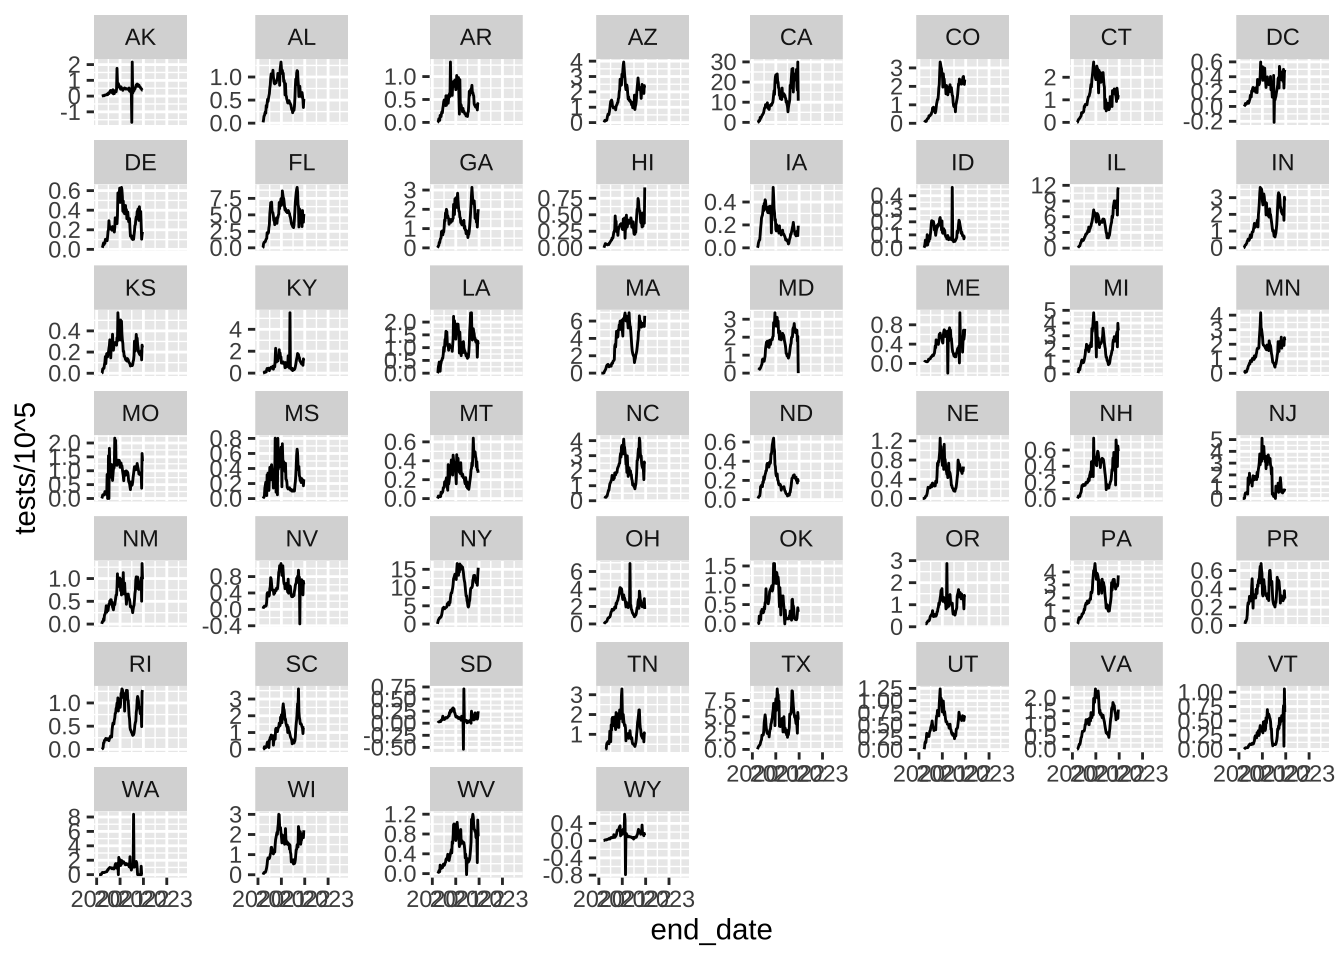
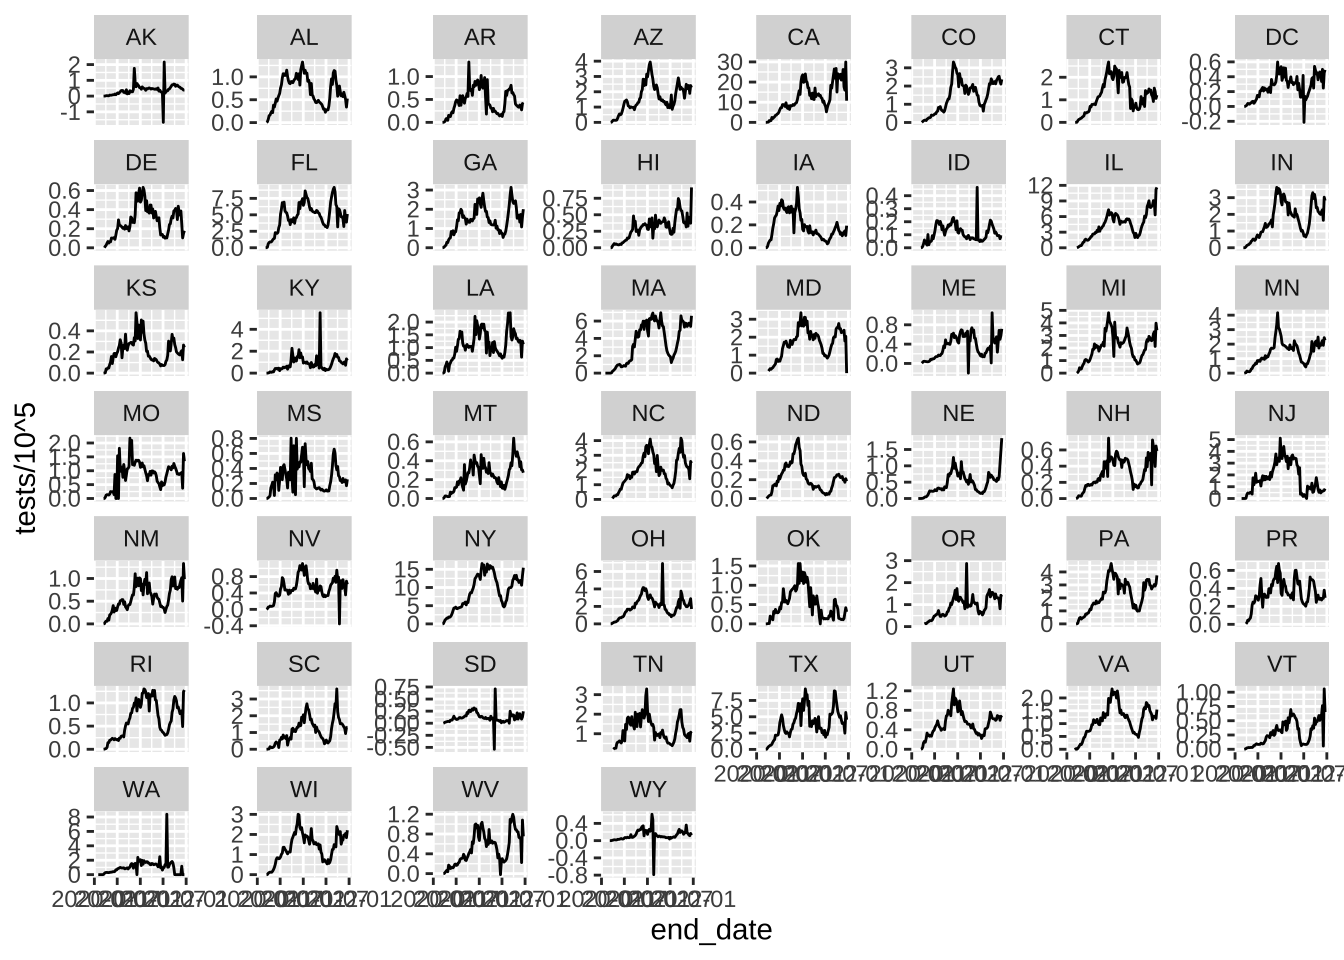
One more update

Changed region(s): [[0.0312, 0.0312, 1.0, 0.9688], [0.9062, 0.1562, 1.0, 0.2812]]

diff --git a/docs/pset1.html b/docs/pset1.html
@@ -425,16 +425,14 @@ dbl (13): population, region, mmwr_year, mmwr_week, cases, tests, hosp, deat...
 <li>The number of cases depends on testing capacity. Note that during the start of the pandemic, when we know many people died, there are not that many cases reported. Also notice somewhat large variability across states that might not be consistent with actual prevalence. The <code>tests</code> columns provides the cumulative number of tests performed by the data represented by the week. This data is not official CDC data. It was provided by Johns Hopkins Coronavirus Resource Center. Before using the data, explore the data for each state carefully looking for potential problems.</li>
 </ol>
 <p>For each state compute and plot the number of tests perforemd each week. Look at the plot for each state and look for possible problems. No need to make this plot pretty since we are just using it for data exploration. Report any inconsistencies if any.</p>
-<div class="cell" data-hash="pset1_cache/html/unnamed-chunk-10_398a0d4e10eb6b731250f73bea21b16f">
+<div class="cell" data-hash="pset1_cache/html/unnamed-chunk-10_e21e255ca9468c507555dd97dc2ca6a7">
 <div class="sourceCode cell-code" id="cb13"><pre class="sourceCode r code-with-copy"><code class="sourceCode r"><span id="cb13-1"><a href="#cb13-1" aria-hidden="true" tabindex="-1"></a>dat <span class="sc">|&gt;</span> </span>
-<span id="cb13-2"><a href="#cb13-2" aria-hidden="true" tabindex="-1"></a>  <span class="fu">arrange</span>(end_date) <span class="sc">|&gt;</span></span>
-<span id="cb13-3"><a href="#cb13-3" aria-hidden="true" tabindex="-1"></a>  <span class="fu">group_by</span>(state) <span class="sc">|&gt;</span></span>
-<span id="cb13-4"><a href="#cb13-4" aria-hidden="true" tabindex="-1"></a>  <span class="fu">mutate</span>(<span class="at">tests =</span> <span class="fu">diff</span>(<span class="fu">c</span>(<span class="dv">0</span>,tests))) <span class="sc">|&gt;</span></span>
-<span id="cb13-5"><a href="#cb13-5" aria-hidden="true" tabindex="-1"></a>  <span class="fu">ggplot</span>(<span class="fu">aes</span>(end_date, tests<span class="sc">/</span><span class="dv">10</span><span class="sc">^</span><span class="dv">5</span>)) <span class="sc">+</span> <span class="fu">geom_line</span>() <span class="sc">+</span></span>
-<span id="cb13-6"><a href="#cb13-6" aria-hidden="true" tabindex="-1"></a>  <span class="fu">facet_wrap</span>(<span class="sc">~</span>state, <span class="at">scales =</span> <span class="st">"free_y"</span>)</span></code><button title="Copy to Clipboard" class="code-copy-button"><i class="bi"></i></button></pre></div>
-<div class="cell-output cell-output-stderr">
-<pre><code>Warning: Removed 97 rows containing missing values (`geom_line()`).</code></pre>
-</div>
+<span id="cb13-2"><a href="#cb13-2" aria-hidden="true" tabindex="-1"></a>  <span class="fu">filter</span>(<span class="sc">!</span><span class="fu">is.na</span>(tests)) <span class="sc">|&gt;</span></span>
+<span id="cb13-3"><a href="#cb13-3" aria-hidden="true" tabindex="-1"></a>  <span class="fu">arrange</span>(end_date) <span class="sc">|&gt;</span></span>
+<span id="cb13-4"><a href="#cb13-4" aria-hidden="true" tabindex="-1"></a>  <span class="fu">group_by</span>(state) <span class="sc">|&gt;</span></span>
+<span id="cb13-5"><a href="#cb13-5" aria-hidden="true" tabindex="-1"></a>  <span class="fu">mutate</span>(<span class="at">tests =</span> <span class="fu">diff</span>(<span class="fu">c</span>(<span class="dv">0</span>,tests))) <span class="sc">|&gt;</span></span>
+<span id="cb13-6"><a href="#cb13-6" aria-hidden="true" tabindex="-1"></a>  <span class="fu">ggplot</span>(<span class="fu">aes</span>(end_date, tests<span class="sc">/</span><span class="dv">10</span><span class="sc">^</span><span class="dv">5</span>)) <span class="sc">+</span> <span class="fu">geom_line</span>() <span class="sc">+</span></span>
+<span id="cb13-7"><a href="#cb13-7" aria-hidden="true" tabindex="-1"></a>  <span class="fu">facet_wrap</span>(<span class="sc">~</span>state, <span class="at">scales =</span> <span class="st">"free_y"</span>)</span></code><button title="Copy to Clipboard" class="code-copy-button"><i class="bi"></i></button></pre></div>
 <div class="cell-output-display">
 <p><img src="pset1_files/figure-html/unnamed-chunk-10-1.png" class="img-fluid" width="672"></p>
 </div>
@@ -445,12 +443,12 @@ dbl (13): population, region, mmwr_year, mmwr_week, cases, tests, hosp, deat...
 <li><p>Compute the number of tests per capita for the last day JHU reported these statistics. Make a boxplot of these values for each region and include the state level data with the state abbreviation as a label. Write a sentences describing these differences you see and how this could affect our interpretation of differences in cases rates across states.</p></li>
 </ol>
 <div class="cell" data-hash="pset1_cache/html/unnamed-chunk-11_9f797323e94bc446ea92aa343132f6aa">
-<div class="sourceCode cell-code" id="cb15"><pre class="sourceCode r code-with-copy"><code class="sourceCode r"><span id="cb15-1"><a href="#cb15-1" aria-hidden="true" tabindex="-1"></a>last_day <span class="ot">&lt;-</span> <span class="fu">as_date</span>(<span class="st">"2021-1-2"</span>) <span class="do">## this should come from the previous exercise... </span></span>
-<span id="cb15-2"><a href="#cb15-2" aria-hidden="true" tabindex="-1"></a>dat <span class="sc">|&gt;</span> <span class="fu">filter</span>(end_date <span class="sc">==</span> last_day) <span class="sc">|&gt;</span></span>
-<span id="cb15-3"><a href="#cb15-3" aria-hidden="true" tabindex="-1"></a>  <span class="fu">ggplot</span>(<span class="fu">aes</span>(region, tests<span class="sc">/</span>population)) <span class="sc">+</span></span>
-<span id="cb15-4"><a href="#cb15-4" aria-hidden="true" tabindex="-1"></a>  <span class="fu">geom_boxplot</span>() <span class="sc">+</span></span>
-<span id="cb15-5"><a href="#cb15-5" aria-hidden="true" tabindex="-1"></a>  <span class="fu">geom_text</span>(<span class="fu">aes</span>(<span class="at">label =</span> state)) <span class="sc">+</span></span>
-<span id="cb15-6"><a href="#cb15-6" aria-hidden="true" tabindex="-1"></a>  <span class="fu">labs</span>(<span class="at">x =</span> <span class="st">"Region"</span>, <span class="at">y =</span> <span class="st">"Test per capita"</span>, <span class="at">title =</span> <span class="st">"SARS-COV2 tests per person"</span>)</span></code><button title="Copy to Clipboard" class="code-copy-button"><i class="bi"></i></button></pre></div>
+<div class="sourceCode cell-code" id="cb14"><pre class="sourceCode r code-with-copy"><code class="sourceCode r"><span id="cb14-1"><a href="#cb14-1" aria-hidden="true" tabindex="-1"></a>last_day <span class="ot">&lt;-</span> <span class="fu">as_date</span>(<span class="st">"2021-1-2"</span>) <span class="do">## this should come from the previous exercise... </span></span>
+<span id="cb14-2"><a href="#cb14-2" aria-hidden="true" tabindex="-1"></a>dat <span class="sc">|&gt;</span> <span class="fu">filter</span>(end_date <span class="sc">==</span> last_day) <span class="sc">|&gt;</span></span>
+<span id="cb14-3"><a href="#cb14-3" aria-hidden="true" tabindex="-1"></a>  <span class="fu">ggplot</span>(<span class="fu">aes</span>(region, tests<span class="sc">/</span>population)) <span class="sc">+</span></span>
+<span id="cb14-4"><a href="#cb14-4" aria-hidden="true" tabindex="-1"></a>  <span class="fu">geom_boxplot</span>() <span class="sc">+</span></span>
+<span id="cb14-5"><a href="#cb14-5" aria-hidden="true" tabindex="-1"></a>  <span class="fu">geom_text</span>(<span class="fu">aes</span>(<span class="at">label =</span> state)) <span class="sc">+</span></span>
+<span id="cb14-6"><a href="#cb14-6" aria-hidden="true" tabindex="-1"></a>  <span class="fu">labs</span>(<span class="at">x =</span> <span class="st">"Region"</span>, <span class="at">y =</span> <span class="st">"Test per capita"</span>, <span class="at">title =</span> <span class="st">"SARS-COV2 tests per person"</span>)</span></code><button title="Copy to Clipboard" class="code-copy-button"><i class="bi"></i></button></pre></div>
 <div class="cell-output-display">
 <p><img src="pset1_files/figure-html/unnamed-chunk-11-1.png" class="img-fluid" width="672"></p>
 </div>
@@ -463,8 +461,8 @@ dbl (13): population, region, mmwr_year, mmwr_week, cases, tests, hosp, deat...
 <li>Make sure that you create a data frame with a column with dates in <code>Dates</code> format and tests as numbers.</li>
 </ul>
 <div class="cell" data-hash="pset1_cache/html/unnamed-chunk-12_830cf83a391c921906d47461c7b9408e">
-<div class="sourceCode cell-code" id="cb16"><pre class="sourceCode r code-with-copy"><code class="sourceCode r"><span id="cb16-1"><a href="#cb16-1" aria-hidden="true" tabindex="-1"></a>url <span class="ot">&lt;-</span> <span class="st">"https://raw.githubusercontent.com/datasciencelabs/2023/main/data/covid19-tests.txt"</span></span>
-<span id="cb16-2"><a href="#cb16-2" aria-hidden="true" tabindex="-1"></a>tests <span class="ot">&lt;-</span> <span class="fu">read_delim</span>(url, <span class="at">delim =</span> <span class="st">" "</span>) </span></code><button title="Copy to Clipboard" class="code-copy-button"><i class="bi"></i></button></pre></div>
+<div class="sourceCode cell-code" id="cb15"><pre class="sourceCode r code-with-copy"><code class="sourceCode r"><span id="cb15-1"><a href="#cb15-1" aria-hidden="true" tabindex="-1"></a>url <span class="ot">&lt;-</span> <span class="st">"https://raw.githubusercontent.com/datasciencelabs/2023/main/data/covid19-tests.txt"</span></span>
+<span id="cb15-2"><a href="#cb15-2" aria-hidden="true" tabindex="-1"></a>tests <span class="ot">&lt;-</span> <span class="fu">read_delim</span>(url, <span class="at">delim =</span> <span class="st">" "</span>) </span></code><button title="Copy to Clipboard" class="code-copy-button"><i class="bi"></i></button></pre></div>
 <div class="cell-output cell-output-stderr">
 <pre><code>Rows: 183 Columns: 2
 ── Column specification ────────────────────────────────────────────────────────
@@ -474,11 +472,11 @@ chr (2): date, tests
 ℹ Use `spec()` to retrieve the full column specification for this data.
 ℹ Specify the column types or set `show_col_types = FALSE` to quiet this message.</code></pre>
 </div>
-<div class="sourceCode cell-code" id="cb18"><pre class="sourceCode r code-with-copy"><code class="sourceCode r"><span id="cb18-1"><a href="#cb18-1" aria-hidden="true" tabindex="-1"></a>tests <span class="ot">&lt;-</span> tests <span class="sc">|&gt;</span> <span class="fu">mutate</span>(<span class="at">date =</span> <span class="fu">mdy</span>(date), <span class="at">tests =</span> <span class="fu">parse_number</span>(tests))</span>
-<span id="cb18-2"><a href="#cb18-2" aria-hidden="true" tabindex="-1"></a><span class="do">## alternatively we can re-read the file</span></span>
-<span id="cb18-3"><a href="#cb18-3" aria-hidden="true" tabindex="-1"></a>tests <span class="ot">&lt;-</span> <span class="fu">read_delim</span>(url, <span class="at">delim =</span> <span class="st">" "</span>, </span>
-<span id="cb18-4"><a href="#cb18-4" aria-hidden="true" tabindex="-1"></a>                    <span class="at">col_types =</span> <span class="fu">cols</span>(<span class="at">date =</span> <span class="fu">col_date</span>(<span class="at">format =</span> <span class="st">"%m-%d-%y"</span>),</span>
-<span id="cb18-5"><a href="#cb18-5" aria-hidden="true" tabindex="-1"></a>                                     <span class="at">tests =</span> <span class="fu">col_number</span>()))</span></code><button title="Copy to Clipboard" class="code-copy-button"><i class="bi"></i></button></pre></div>
+<div class="sourceCode cell-code" id="cb17"><pre class="sourceCode r code-with-copy"><code class="sourceCode r"><span id="cb17-1"><a href="#cb17-1" aria-hidden="true" tabindex="-1"></a>tests <span class="ot">&lt;-</span> tests <span class="sc">|&gt;</span> <span class="fu">mutate</span>(<span class="at">date =</span> <span class="fu">mdy</span>(date), <span class="at">tests =</span> <span class="fu">parse_number</span>(tests))</span>
+<span id="cb17-2"><a href="#cb17-2" aria-hidden="true" tabindex="-1"></a><span class="do">## alternatively we can re-read the file</span></span>
+<span id="cb17-3"><a href="#cb17-3" aria-hidden="true" tabindex="-1"></a>tests <span class="ot">&lt;-</span> <span class="fu">read_delim</span>(url, <span class="at">delim =</span> <span class="st">" "</span>, </span>
+<span id="cb17-4"><a href="#cb17-4" aria-hidden="true" tabindex="-1"></a>                    <span class="at">col_types =</span> <span class="fu">cols</span>(<span class="at">date =</span> <span class="fu">col_date</span>(<span class="at">format =</span> <span class="st">"%m-%d-%y"</span>),</span>
+<span id="cb17-5"><a href="#cb17-5" aria-hidden="true" tabindex="-1"></a>                                     <span class="at">tests =</span> <span class="fu">col_number</span>()))</span></code><button title="Copy to Clipboard" class="code-copy-button"><i class="bi"></i></button></pre></div>
 </div>
 <ol start="15" class="example" type="1">
 <li>Plot the tests per week to see the trend in time. Write a sentence of the pattern you see.</li>
@@ -492,12 +490,12 @@ chr (2): date, tests
 <li>We want to examine the percent of the population that completed the first series of vaccines, received the booster, and received the bivalent booster, respectively. First run this line of code and examine what it does.</li>
 </ol>
 <div class="cell" data-hash="pset1_cache/html/unnamed-chunk-13_bdce7641df661c0cc6e370a687125abe">
-<div class="sourceCode cell-code" id="cb19"><pre class="sourceCode r code-with-copy"><code class="sourceCode r"><span id="cb19-1"><a href="#cb19-1" aria-hidden="true" tabindex="-1"></a>tmp <span class="ot">&lt;-</span> dat <span class="sc">|&gt;</span> </span>
-<span id="cb19-2"><a href="#cb19-2" aria-hidden="true" tabindex="-1"></a>  <span class="fu">pivot_longer</span>(<span class="fu">c</span>(series_complete, booster, bivalent), <span class="at">names_to =</span> <span class="st">"series"</span>, <span class="at">values_to =</span> <span class="st">"percent"</span>) <span class="sc">|&gt;</span></span>
-<span id="cb19-3"><a href="#cb19-3" aria-hidden="true" tabindex="-1"></a>  <span class="fu">select</span>(state, region, population, end_date, series, percent) <span class="sc">|&gt;</span></span>
-<span id="cb19-4"><a href="#cb19-4" aria-hidden="true" tabindex="-1"></a>  <span class="fu">filter</span>(<span class="sc">!</span><span class="fu">is.na</span>(percent)) <span class="sc">|&gt;</span></span>
-<span id="cb19-5"><a href="#cb19-5" aria-hidden="true" tabindex="-1"></a>  <span class="fu">mutate</span>(<span class="at">percent =</span> percent<span class="sc">/</span>population,</span>
-<span id="cb19-6"><a href="#cb19-6" aria-hidden="true" tabindex="-1"></a>         <span class="at">series =</span> <span class="fu">factor</span>(series, <span class="fu">c</span>(<span class="st">"series_complete"</span>, <span class="st">"booster"</span>, <span class="st">"bivalent"</span>))) </span></code><button title="Copy to Clipboard" class="code-copy-button"><i class="bi"></i></button></pre></div>
+<div class="sourceCode cell-code" id="cb18"><pre class="sourceCode r code-with-copy"><code class="sourceCode r"><span id="cb18-1"><a href="#cb18-1" aria-hidden="true" tabindex="-1"></a>tmp <span class="ot">&lt;-</span> dat <span class="sc">|&gt;</span> </span>
+<span id="cb18-2"><a href="#cb18-2" aria-hidden="true" tabindex="-1"></a>  <span class="fu">pivot_longer</span>(<span class="fu">c</span>(series_complete, booster, bivalent), <span class="at">names_to =</span> <span class="st">"series"</span>, <span class="at">values_to =</span> <span class="st">"percent"</span>) <span class="sc">|&gt;</span></span>
+<span id="cb18-3"><a href="#cb18-3" aria-hidden="true" tabindex="-1"></a>  <span class="fu">select</span>(state, region, population, end_date, series, percent) <span class="sc">|&gt;</span></span>
+<span id="cb18-4"><a href="#cb18-4" aria-hidden="true" tabindex="-1"></a>  <span class="fu">filter</span>(<span class="sc">!</span><span class="fu">is.na</span>(percent)) <span class="sc">|&gt;</span></span>
+<span id="cb18-5"><a href="#cb18-5" aria-hidden="true" tabindex="-1"></a>  <span class="fu">mutate</span>(<span class="at">percent =</span> percent<span class="sc">/</span>population,</span>
+<span id="cb18-6"><a href="#cb18-6" aria-hidden="true" tabindex="-1"></a>         <span class="at">series =</span> <span class="fu">factor</span>(series, <span class="fu">c</span>(<span class="st">"series_complete"</span>, <span class="st">"booster"</span>, <span class="st">"bivalent"</span>))) </span></code><button title="Copy to Clipboard" class="code-copy-button"><i class="bi"></i></button></pre></div>
 </div>
 <p>Then make a plot showing the percent of population vaccination for each state. Use color to represent region.</p>
 <ul>
@@ -512,18 +510,18 @@ chr (2): date, tests
 <li><p>Does population density have an effect on infections? Use the <code>state.area</code> predefined variable to add compute population density. Make a histogram and density plot of state densities. Note that you will have to add the geographical area for Puerto Rico and DC as it is not included in <code>state.area</code></p></li>
 </ol>
 <div class="cell" data-hash="pset1_cache/html/unnamed-chunk-14_e524a950d9920f6cca92cf467ed075d4">
-<div class="sourceCode cell-code" id="cb20"><pre class="sourceCode r code-with-copy"><code class="sourceCode r"><span id="cb20-1"><a href="#cb20-1" aria-hidden="true" tabindex="-1"></a>my.state.abb <span class="ot">&lt;-</span> <span class="fu">c</span>(state.abb, <span class="st">"PR"</span>, <span class="st">"DC"</span>)</span>
-<span id="cb20-2"><a href="#cb20-2" aria-hidden="true" tabindex="-1"></a>my.state.area <span class="ot">&lt;-</span> <span class="fu">c</span>(state.area, <span class="dv">5325</span>, <span class="dv">69</span>)</span>
-<span id="cb20-3"><a href="#cb20-3" aria-hidden="true" tabindex="-1"></a>popdens <span class="ot">&lt;-</span> dat <span class="sc">|&gt;</span> <span class="fu">filter</span>(end_date <span class="sc">==</span> <span class="fu">min</span>(end_date)) <span class="sc">|&gt;</span> </span>
-<span id="cb20-4"><a href="#cb20-4" aria-hidden="true" tabindex="-1"></a>  <span class="fu">select</span>(state, population) <span class="sc">|&gt;</span></span>
-<span id="cb20-5"><a href="#cb20-5" aria-hidden="true" tabindex="-1"></a>  <span class="fu">mutate</span>(<span class="at">area =</span> my.state.area[<span class="fu">match</span>(state, my.state.abb)]) <span class="sc">|&gt;</span> </span>
-<span id="cb20-6"><a href="#cb20-6" aria-hidden="true" tabindex="-1"></a>  <span class="fu">mutate</span>(<span class="at">popdens =</span> population <span class="sc">/</span> area) </span>
-<span id="cb20-7"><a href="#cb20-7" aria-hidden="true" tabindex="-1"></a>  </span>
-<span id="cb20-8"><a href="#cb20-8" aria-hidden="true" tabindex="-1"></a>popdens <span class="sc">|&gt;</span> <span class="fu">ggplot</span>(<span class="fu">aes</span>(popdens)) <span class="sc">+</span></span>
-<span id="cb20-9"><a href="#cb20-9" aria-hidden="true" tabindex="-1"></a>  <span class="fu">geom_histogram</span>(<span class="fu">aes</span>(<span class="at">y =</span> <span class="fu">after_stat</span>(density)), <span class="at">bins =</span> <span class="dv">25</span>, <span class="at">color =</span> <span class="st">"black"</span>) <span class="sc">+</span></span>
-<span id="cb20-10"><a href="#cb20-10" aria-hidden="true" tabindex="-1"></a>  <span class="fu">geom_density</span>() <span class="sc">+</span></span>
-<span id="cb20-11"><a href="#cb20-11" aria-hidden="true" tabindex="-1"></a>  <span class="fu">scale_x_log10</span>() <span class="sc">+</span></span>
-<span id="cb20-12"><a href="#cb20-12" aria-hidden="true" tabindex="-1"></a>  <span class="fu">labs</span>(<span class="at">title =</span> <span class="st">"Distribution of poplation density across states"</span>, <span class="at">x =</span> <span class="st">"Population density"</span>, <span class="at">y =</span> <span class="st">"Density"</span>)</span></code><button title="Copy to Clipboard" class="code-copy-button"><i class="bi"></i></button></pre></div>
+<div class="sourceCode cell-code" id="cb19"><pre class="sourceCode r code-with-copy"><code class="sourceCode r"><span id="cb19-1"><a href="#cb19-1" aria-hidden="true" tabindex="-1"></a>my.state.abb <span class="ot">&lt;-</span> <span class="fu">c</span>(state.abb, <span class="st">"PR"</span>, <span class="st">"DC"</span>)</span>
+<span id="cb19-2"><a href="#cb19-2" aria-hidden="true" tabindex="-1"></a>my.state.area <span class="ot">&lt;-</span> <span class="fu">c</span>(state.area, <span class="dv">5325</span>, <span class="dv">69</span>)</span>
+<span id="cb19-3"><a href="#cb19-3" aria-hidden="true" tabindex="-1"></a>popdens <span class="ot">&lt;-</span> dat <span class="sc">|&gt;</span> <span class="fu">filter</span>(end_date <span class="sc">==</span> <span class="fu">min</span>(end_date)) <span class="sc">|&gt;</span> </span>
+<span id="cb19-4"><a href="#cb19-4" aria-hidden="true" tabindex="-1"></a>  <span class="fu">select</span>(state, population) <span class="sc">|&gt;</span></span>
+<span id="cb19-5"><a href="#cb19-5" aria-hidden="true" tabindex="-1"></a>  <span class="fu">mutate</span>(<span class="at">area =</span> my.state.area[<span class="fu">match</span>(state, my.state.abb)]) <span class="sc">|&gt;</span> </span>
+<span id="cb19-6"><a href="#cb19-6" aria-hidden="true" tabindex="-1"></a>  <span class="fu">mutate</span>(<span class="at">popdens =</span> population <span class="sc">/</span> area) </span>
+<span id="cb19-7"><a href="#cb19-7" aria-hidden="true" tabindex="-1"></a>  </span>
+<span id="cb19-8"><a href="#cb19-8" aria-hidden="true" tabindex="-1"></a>popdens <span class="sc">|&gt;</span> <span class="fu">ggplot</span>(<span class="fu">aes</span>(popdens)) <span class="sc">+</span></span>
+<span id="cb19-9"><a href="#cb19-9" aria-hidden="true" tabindex="-1"></a>  <span class="fu">geom_histogram</span>(<span class="fu">aes</span>(<span class="at">y =</span> <span class="fu">after_stat</span>(density)), <span class="at">bins =</span> <span class="dv">25</span>, <span class="at">color =</span> <span class="st">"black"</span>) <span class="sc">+</span></span>
+<span id="cb19-10"><a href="#cb19-10" aria-hidden="true" tabindex="-1"></a>  <span class="fu">geom_density</span>() <span class="sc">+</span></span>
+<span id="cb19-11"><a href="#cb19-11" aria-hidden="true" tabindex="-1"></a>  <span class="fu">scale_x_log10</span>() <span class="sc">+</span></span>
+<span id="cb19-12"><a href="#cb19-12" aria-hidden="true" tabindex="-1"></a>  <span class="fu">labs</span>(<span class="at">title =</span> <span class="st">"Distribution of poplation density across states"</span>, <span class="at">x =</span> <span class="st">"Population density"</span>, <span class="at">y =</span> <span class="st">"Density"</span>)</span></code><button title="Copy to Clipboard" class="code-copy-button"><i class="bi"></i></button></pre></div>
 <div class="cell-output-display">
 <p><img src="pset1_files/figure-html/unnamed-chunk-14-1.png" class="img-fluid" width="672"></p>
 </div>
